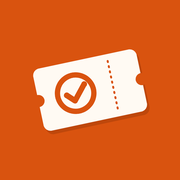
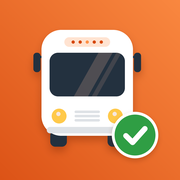
icone: un pullman visto di fronte col bollino verde del timbrato
Il biglietto timbrato era poco leggibile sulla Home. Nuovo disegno su
fondo arancio sfumato, uguale anche nella testata dell'app. Le icone
hanno ?v=2 e la versione sale a 2026.11.08-2, così telefoni e Safari
non tengono quella vecchia in cache.

diff --git a/index.html b/index.html
@@ -14,8 +14,8 @@
 <meta name="apple-mobile-web-app-title" content="Timbro">
 <meta name="format-detection" content="telephone=no">
 <link rel="manifest" href="manifest.webmanifest">
-<link rel="apple-touch-icon" href="icona-180.png">
-<link rel="icon" type="image/png" href="icona-192.png">
+<link rel="apple-touch-icon" href="icona-180.png?v=2">
+<link rel="icon" type="image/png" href="icona-192.png?v=2">
 <link rel="modulepreload" href="motore.js">
 <link rel="modulepreload" href="sincro.js">
 <style>
@@ -239,11 +239,15 @@ button:disabled{cursor:default}
 <div class="app">
   <header class="testata">
     <div class="marchio">
-      <svg viewBox="0 0 32 32" aria-hidden="true"><rect width="32" height="32" rx="8" fill="var(--bus)"/>
-        <g transform="rotate(-10 16 16)"><rect x="5.5" y="9.5" width="21" height="13" rx="2.2" fill="#fff"/>
-        <path d="M20.5 10.5v11" stroke="var(--bus)" stroke-width="1" stroke-dasharray="1.6 1.4"/>
-        <circle cx="12.6" cy="16" r="3.9" fill="none" stroke="var(--bus)" stroke-width="1.5"/>
-        <path d="M10.9 16.1l1.2 1.2 2.3-2.5" fill="none" stroke="var(--bus)" stroke-width="1.5" stroke-linecap="round" stroke-linejoin="round"/></g></svg>
+      <svg viewBox="0 0 32 32" aria-hidden="true">
+        <defs><linearGradient id="fondoMarchio" x1="1" y1="0" x2="0" y2="1"><stop offset="0" stop-color="#FF9248"/><stop offset="1" stop-color="#D6480E"/></linearGradient></defs>
+        <rect width="32" height="32" rx="8" fill="url(#fondoMarchio)"/>
+        <rect x="8.9" y="22" width="3" height="4.2" rx="1" fill="#23313F"/><rect x="19.1" y="22" width="3" height="4.2" rx="1" fill="#23313F"/>
+        <rect x="7.4" y="5.3" width="16.2" height="18.8" rx="3.5" fill="#fff"/>
+        <rect x="8.8" y="9.4" width="13.4" height="7.7" rx="1.5" fill="#23313F"/>
+        <circle cx="10.5" cy="20.6" r="1.3" fill="#FFC94A"/><circle cx="20.5" cy="20.6" r="1.3" fill="#FFC94A"/>
+        <circle cx="24.2" cy="24.2" r="4.6" fill="#2F9E44" stroke="#fff" stroke-width="1.1"/>
+        <path d="M22.3 24.3l1.3 1.3 2.5-2.6" fill="none" stroke="#fff" stroke-width="1.3" stroke-linecap="round" stroke-linejoin="round"/></svg>
       <span>Timbro</span>
     </div>
     <div class="testata-dx">
@@ -404,7 +408,7 @@ button:disabled{cursor:default}
 import * as M from './motore.js';
 import { creaSincro, allinea, ErroreGit } from './sincro.js';
 
-const VERSIONE_APP = '2026.11.08';
+const VERSIONE_APP = '2026.11.08-2';
 const $ = (s, r = document) => r.querySelector(s);
 const $$ = (s, r = document) => [...r.querySelectorAll(s)];
 

diff --git a/sw.js b/sw.js
@@ -4,7 +4,7 @@
 
    Quando cambia qualcosa nell'app, alza VERSIONE: il vecchio guscio viene
    buttato e il nuovo scaricato alla prima apertura con rete. */
-const VERSIONE = '2026.11.08';
+const VERSIONE = '2026.11.08-2';
 const CACHE = 'timbro-' + VERSIONE;
 const GUSCIO = ['./', './index.html', './motore.js', './sincro.js', './manifest.webmanifest',
                 './icona-180.png', './icona-192.png', './icona-512.png'];

diff --git a/strumenti/disegna_icone.py b/strumenti/disegna_icone.py
@@ -1,50 +1,114 @@
-"""Disegna le icone di Timbro (180, 192, 512 px): un biglietto timbrato su fondo arancio.
+"""Disegna le icone di Timbro (180, 192, 512 px): un pullman visto di fronte, su fondo
+arancio sfumato, con il bollino verde del "timbrato".
 
 Uso:  python3 strumenti/disegna_icone.py   (dalla cartella del progetto, serve Pillow)
-Il disegno sta nell'80% centrale, così l'icona regge anche il ritaglio "maskable" di Android.
+Si disegna a 2048 px e si riduce, per avere bordi morbidi. Il disegno sta nell'80%
+centrale, così l'icona regge anche il ritaglio "maskable" di Android.
 """
 from pathlib import Path
-from PIL import Image, ImageDraw
+from PIL import Image, ImageDraw, ImageFilter
 
-LATO = 1024
-ARANCIO = (217, 83, 15, 255)
-CARTA = (255, 250, 243, 255)
-INCHIOSTRO = (217, 83, 15, 255)
-OMBRA = (120, 40, 0, 70)
+F = 2                       # le coordinate sono pensate su 1024, si disegna al doppio
+LATO = 1024 * F
+ARANCIO_CHIARO = (255, 146, 72)   # anche nella testata (index.html, #fondoMarchio)
+ARANCIO_SCURO = (214, 72, 14)
+BIANCO = (255, 255, 255, 255)
+LAVAGNA = (35, 49, 63, 255)
+FARO = (255, 201, 74, 255)
+INSEGNA = (255, 227, 209, 255)
+VERDE = (47, 158, 68, 255)
 
-def biglietto():
-    strato = Image.new("RGBA", (LATO, LATO), (0, 0, 0, 0))
-    d = ImageDraw.Draw(strato)
-    l, a = 600, 360
-    x0, y0 = (LATO - l) // 2, (LATO - a) // 2
-    # ombra morbida sotto il biglietto
-    d.rounded_rectangle((x0 + 10, y0 + 22, x0 + l + 10, y0 + a + 22), 40, fill=OMBRA)
-    d.rounded_rectangle((x0, y0, x0 + l, y0 + a), 40, fill=CARTA)
-    # le due tacche laterali del biglietto
-    r = 34
-    cy = y0 + a // 2
-    d.ellipse((x0 - r, cy - r, x0 + r, cy + r), fill=(0, 0, 0, 0))
-    d.ellipse((x0 + l - r, cy - r, x0 + l + r, cy + r), fill=(0, 0, 0, 0))
-    # perforazione
-    px = x0 + int(l * 0.72)
-    for y in range(y0 + 34, y0 + a - 30, 30):
-        d.rounded_rectangle((px - 5, y, px + 5, y + 16), 5, fill=INCHIOSTRO)
-    # il timbro: anello con la spunta
-    cx, cy2, R = x0 + int(l * 0.36), cy, 118
-    d.ellipse((cx - R, cy2 - R, cx + R, cy2 + R), outline=INCHIOSTRO, width=30)
-    d.line([(cx - 52, cy2 + 2), (cx - 12, cy2 + 42), (cx + 58, cy2 - 40)], fill=INCHIOSTRO, width=32, joint="curve")
-    for (px2, py2) in [(cx - 52, cy2 + 2), (cx + 58, cy2 - 40)]:
-        d.ellipse((px2 - 16, py2 - 16, px2 + 16, py2 + 16), fill=INCHIOSTRO)
-    return strato.rotate(12, resample=Image.BICUBIC, center=(LATO // 2, LATO // 2))
+
+def s(*v):
+    return tuple(int(x * F) for x in v)
+
+
+def sfondo():
+    """Sfumatura diagonale dall'arancio chiaro (in alto a sinistra) allo scuro."""
+    g = Image.linear_gradient("L").resize((LATO * 2, LATO * 2)).rotate(-45, resample=Image.BICUBIC)
+    g = g.crop((LATO // 2, LATO // 2, LATO // 2 + LATO, LATO // 2 + LATO))
+    chiaro = Image.new("RGBA", (LATO, LATO), ARANCIO_CHIARO + (255,))
+    scuro = Image.new("RGBA", (LATO, LATO), ARANCIO_SCURO + (255,))
+    return Image.composite(scuro, chiaro, g)
+
+
+def pullman():
+    st = Image.new("RGBA", (LATO, LATO), (0, 0, 0, 0))
+    d = ImageDraw.Draw(st)
+    x0, x1, y0, y1 = 236, 756, 170, 772           # carrozzeria
+    # ruote (sotto la carrozzeria)
+    d.rounded_rectangle(s(286, y1 - 30, 380, y1 + 62), 28 * F, fill=LAVAGNA)
+    d.rounded_rectangle(s(612, y1 - 30, 706, y1 + 62), 28 * F, fill=LAVAGNA)
+    # specchietti
+    d.rounded_rectangle(s(x0 - 46, 300, x0 - 6, 410), 18 * F, fill=LAVAGNA)
+    d.rounded_rectangle(s(x1 + 6, 300, x1 + 46, 410), 18 * F, fill=LAVAGNA)
+    d.rectangle(s(x0 - 10, 318, x0 + 4, 330), fill=LAVAGNA)
+    d.rectangle(s(x1 - 4, 318, x1 + 10, 330), fill=LAVAGNA)
+    # carrozzeria
+    d.rounded_rectangle(s(x0, y0, x1, y1), 112 * F, fill=BIANCO)
+    # insegna della linea
+    d.rounded_rectangle(s(366, 212, 626, 266), 27 * F, fill=INSEGNA)
+    for i, cx in enumerate((416, 456, 496, 536, 576)):
+        d.ellipse(s(cx - 9, 230, cx + 9, 248), fill=ARANCIO_SCURO + (255,) if i != 2 else ARANCIO_CHIARO + (255,))
+    # parabrezza con riflesso
+    vetro = (282, 300, 710, 548)
+    d.rounded_rectangle(s(*vetro), 48 * F, fill=LAVAGNA)
+    riflesso = Image.new("RGBA", (LATO, LATO), (0, 0, 0, 0))
+    dr = ImageDraw.Draw(riflesso)
+    dr.polygon([s(560, 300), s(640, 300), s(500, 548), s(420, 548)], fill=(255, 255, 255, 34))
+    dr.polygon([s(662, 300), s(690, 300), s(550, 548), s(522, 548)], fill=(255, 255, 255, 22))
+    maschera = Image.new("L", (LATO, LATO), 0)
+    ImageDraw.Draw(maschera).rounded_rectangle(s(*vetro), 48 * F, fill=255)
+    st.paste(riflesso, (0, 0), Image.composite(riflesso, Image.new("RGBA", (LATO, LATO)), maschera).split()[3])
+    # fari e griglia
+    for cx in (336, 656):
+        d.ellipse(s(cx - 42, 618, cx + 42, 702), fill=FARO)
+        d.ellipse(s(cx - 16, 636, cx + 8, 660), fill=(255, 255, 255, 220))
+    for y in (636, 660, 684):
+        d.rounded_rectangle(s(424, y - 7, 568, y + 7), 7 * F, fill=(222, 226, 230, 255))
+    # paraurti
+    d.rounded_rectangle(s(266, 722, 726, 758), 18 * F, fill=(222, 226, 230, 255))
+    return st
+
+
+def ombra(strato, dy=26, raggio=22, alfa=90):
+    a = strato.split()[3].point(lambda v: alfa if v else 0)
+    o = Image.new("RGBA", strato.size, (110, 30, 0, 0))
+    o.putalpha(a)
+    o = o.filter(ImageFilter.GaussianBlur(raggio * F))
+    out = Image.new("RGBA", strato.size, (0, 0, 0, 0))
+    out.paste(o, (0, dy * F))
+    return out
+
+
+def bollino():
+    st = Image.new("RGBA", (LATO, LATO), (0, 0, 0, 0))
+    d = ImageDraw.Draw(st)
+    cx, cy, r = 768, 768, 116
+    d.ellipse(s(cx - r - 16, cy - r - 16, cx + r + 16, cy + r + 16), fill=BIANCO)
+    d.ellipse(s(cx - r, cy - r, cx + r, cy + r), fill=VERDE)
+    punti = [s(cx - 52, cy + 4), s(cx - 14, cy + 42), s(cx + 56, cy - 36)]
+    d.line(punti, fill=BIANCO, width=31 * F, joint="curve")
+    for p in (punti[0], punti[2]):
+        d.ellipse((p[0] - 15 * F, p[1] - 15 * F, p[0] + 15 * F, p[1] + 15 * F), fill=BIANCO)
+    return st
+
 
 def main():
     cartella = Path(__file__).resolve().parent.parent
-    fondo = Image.new("RGBA", (LATO, LATO), ARANCIO)
-    fondo.alpha_composite(biglietto())
-    finale = fondo.convert("RGB")
-    for n in (180, 192, 512):
-        finale.resize((n, n), Image.LANCZOS).save(cartella / f"icona-{n}.png", optimize=True)
+    img = sfondo()
+    bus = pullman()
+    img.alpha_composite(ombra(bus))
+    img.alpha_composite(bus)
+    b = bollino()
+    img.alpha_composite(ombra(b, dy=14, raggio=14, alfa=70))
+    img.alpha_composite(b)
+    finale = img.convert("RGB")
+    for n in (180, 192, 512, 1024):
+        nome = f"icona-{n}.png" if n != 1024 else "strumenti/icona-grande.png"
+        finale.resize((n, n), Image.LANCZOS).save(cartella / nome, optimize=True)
     print("icone scritte in", cartella)
+
 
 if __name__ == "__main__":
     main()
